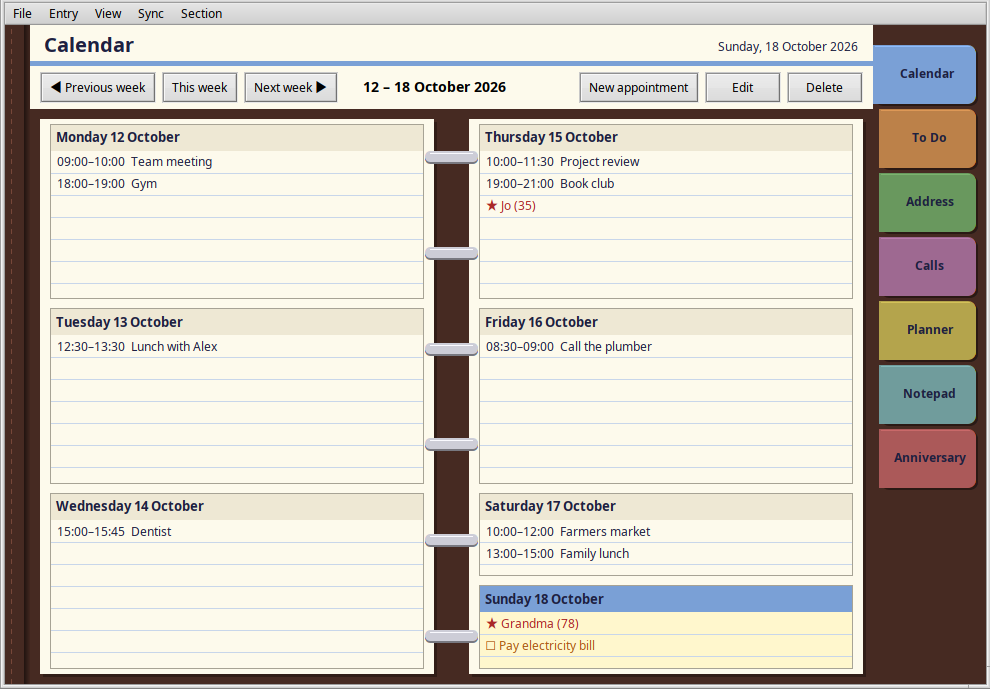
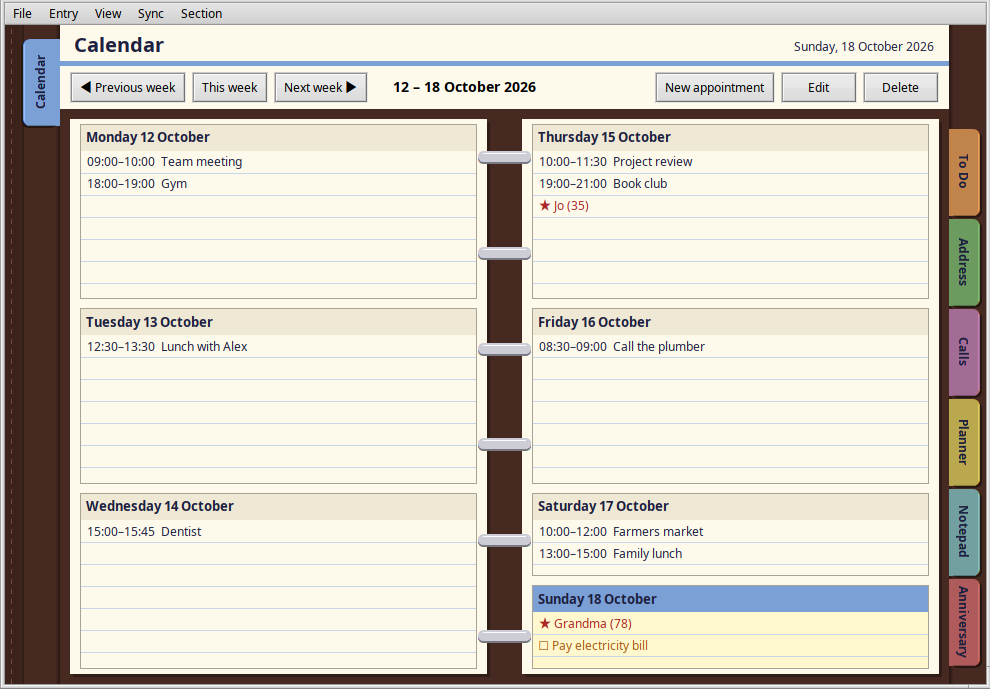
README: new screenshots and section descriptions

Changed region(s): [[0.0, 0.0305, 0.7273, 0.9753], [0.5758, 0.0305, 1.0, 1.0]]

diff --git a/README.md b/README.md
@@ -1,15 +1,21 @@
 # Ringbinder
 
 A tabbed personal organizer for Haiku, modelled on the classic late-90s
-desktop organizers: a leather binder with coloured section tabs, a two-page
-week-at-a-glance diary, and everything saved automatically.
+desktop organizers: a leather ring binder with coloured section dividers,
+two-page spreads for each section, a week-at-a-glance diary, and everything
+saved automatically.
+
+Like a real binder, the tabs of the sections you have turned past move to
+the left-hand edge, and the ones still to come stay on the right.
 
 Native C++ against the Haiku API (Interface Kit + layout API). Optional
 two-way sync with Google Calendar and Google Contacts uses libcurl.
 
-![The Calendar tab: a two-page week spread with appointments, a birthday and a To Do item due today](screenshots/calendar.png)
+![The Calendar: a two-page week spread with appointments, a birthday and a To Do item due today](screenshots/calendar.png)
 
-![The Planner tab: a year at a glance with colour-coded trips, a course and holidays](screenshots/planner.png)
+![To Do: the task list with Overdue, Current, Future and Completed tabs on the left-hand page, and the selected task's card on the right](screenshots/todo.png)
+
+![The Planner: a single full-width year page with weekday columns, weekends as stripes and colour-coded trips, a course and holidays](screenshots/planner.png)
 
 ## Install
 
@@ -30,12 +36,12 @@ tested on Renku OS) and libcurl, which pkgman installs if it's missing.
 | Tab | What it does |
 |-----|--------------|
 | **Calendar** | Two-page week spread (Mon–Wed left, Thu–Sun right, binder rings in the middle). Double-click an empty day to add an appointment, double-click an entry to edit it. Anniversaries (★) and To Do items due that day (☐) appear automatically. |
-| **To Do** | Tasks with priority, due date, category and notes. Completed tasks drop to the bottom, struck through. |
-| **Address** | Contacts with an A–Z index bar along the top. |
-| **Calls** | Call log / call-back list (Outgoing, Incoming, Missed, Call back), with a completed flag. |
-| **Planner** | Year-at-a-glance: 12 months × 31 days, colour-coded by category. **Drag across days** to block out a vacation or trip. Weekends are shaded, today is outlined in red. |
-| **Notepad** | Pages with a table of contents; edits save when you change page, switch tab or quit. |
-| **Anniversary** | Birthdays and yearly dates sorted through the year, with a countdown ("in 12 days") and age shown on the Calendar. |
+| **To Do** | Tasks on the left-hand page, the selected task's card on the right. Tabs down the page edge show All, Overdue, Current (due within a week, or no due date), Future and Completed. Completed tasks drop to the bottom, struck through. |
+| **Address** | Contacts on the left-hand page with A–Z thumb tabs down its edge; the selected contact's card on the right. |
+| **Calls** | Call log / call-back list (Outgoing, Incoming, Missed, Call back) on the left, the selected call on the right, with a completed flag. |
+| **Planner** | A single full-width year page, punched for the rings. The columns are weekdays, as on a paper year planner, so weekends form vertical stripes; the 1st of each month has a red corner and today is outlined in red. **Drag across days** to block out a vacation or trip. |
+| **Notepad** | Contents on the left-hand page, the open page on the right; edits save when you change page, switch tab or quit. |
+| **Anniversary** | Half a year per spread, three months to a page, with each person's age and how soon the date comes up. Ages and anniversaries also appear on the Calendar. |
 
 ## Keyboard
 
@@ -153,9 +159,11 @@ rather than overwritten.
 |------|---------|
 | `App.cpp` | `BApplication`, loads the data store |
 | `BinderWindow.*` | Main window, menus, routes commands to the visible page |
-| `TabStrip.*` | Coloured tabs on the right, leather spine on the left |
+| `TabStrip.*` | Section tabs on both edges, the leather spine, and the Planner's punched ring margin |
+| `Spread.*` | An open two-page spread with the rings down the middle |
 | `Section.*` | Base class for a binder page, page header |
-| `RecordListSection.*` | Generic list page (To Do, Address, Calls, Anniversary) |
+| `RecordListSection.*` | Generic list spread with index tabs and a record card (To Do, Address, Calls) |
+| `AnniversarySection.*` | Half-year anniversary spread |
 | `SectionFactory.cpp` | Field and column definitions for the list pages |
 | `CalendarSection.*` | Week spread view |
 | `PlannerSection.*` | Year grid view |
